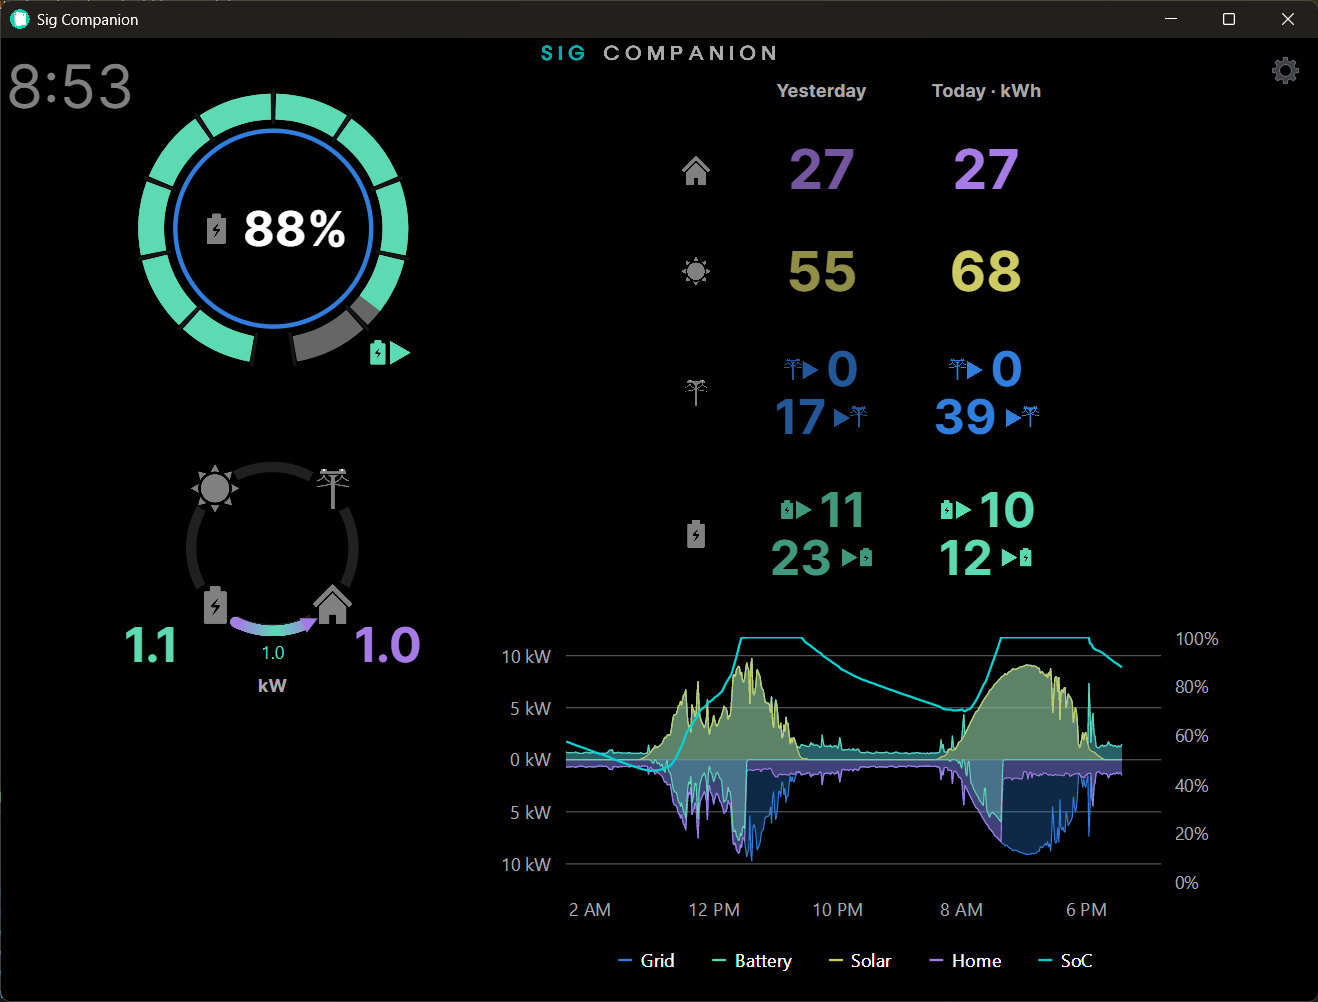
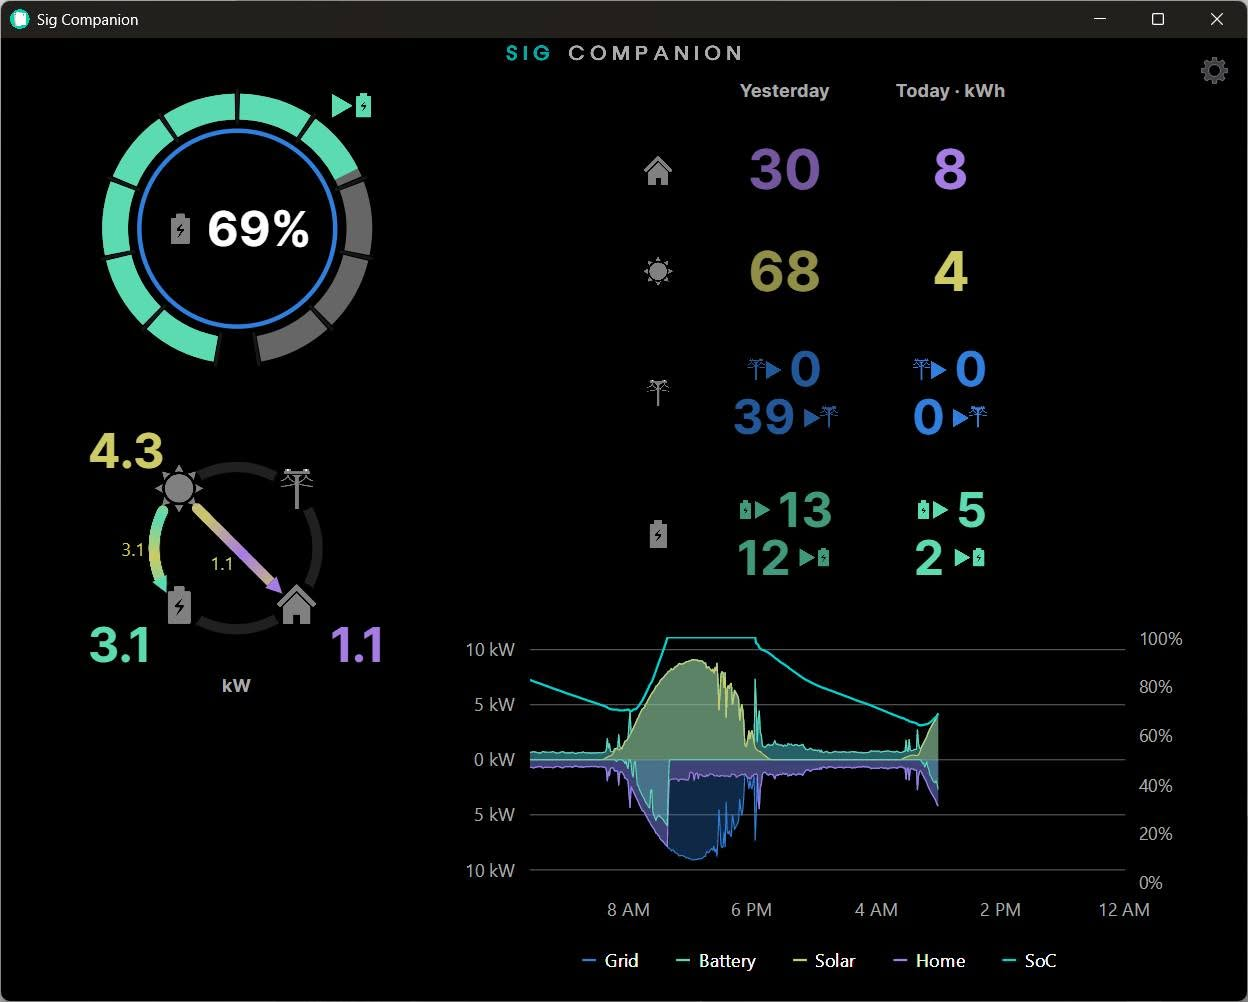
Browser app tweaks

diff --git a/SigCompanion.Browser/wwwroot/index.html b/SigCompanion.Browser/wwwroot/index.html
@@ -2,31 +2,20 @@
 <html>
 
 <head>
-    <title>SigCompanion.Browser</title>
+    <title>Sig Companion</title>
     <meta charset="UTF-8">
     <meta name="viewport" content="width=device-width, initial-scale=1.0">
     <link rel="stylesheet" href="./app.css" />
+    <link rel="icon" type="image/png" sizes="48x48" href="/favicon-48.png">
+    <link rel="icon" type="image/png" sizes="32x32" href="/favicon-32.png">
+    <link rel="icon" type="image/png" sizes="16x16" href="/favicon-16.png">
 </head>
 
 <body style="margin: 0; overflow: hidden">
 <div id="out">
     <div class="avalonia-splash">
         <h2>
-            Powered by
-            <a href="https://www.avaloniaui.net/" target="_blank">
-                <svg width="266" height="52" viewBox="0 0 266 52" fill="none" xmlns="http://www.w3.org/2000/svg">
-                    <path d="M55.8592 47.3941C54.9035 47.3941 54.1184 47.1723 53.504 46.7285C52.9237 46.2848 52.5483 45.6875 52.3776 44.9365C52.2411 44.1856 52.3947 43.3493 52.8384 42.4277L65.9456 13.7045C66.4917 12.544 67.1403 11.7077 67.8912 11.1957C68.6421 10.6496 69.5125 10.3765 70.5024 10.3765C71.4923 10.3765 72.3627 10.6496 73.1136 11.1957C73.8645 11.7077 74.496 12.544 75.008 13.7045L88.2176 42.4277C88.6613 43.3493 88.8149 44.2027 88.6784 44.9877C88.576 45.7387 88.2347 46.336 87.6544 46.7797C87.0741 47.1893 86.3232 47.3941 85.4016 47.3941C84.2411 47.3941 83.3365 47.1211 82.688 46.5749C82.0736 46.0288 81.5275 45.1755 81.0496 44.0149L78.9279 39.0997H62.0415L59.9552 44.0149C59.4432 45.2096 58.8971 46.08 58.3168 46.6261C57.7707 47.1381 56.9515 47.3941 55.8592 47.3941ZM70.4 19.2853L64.6844 32.9045H76.2627L70.5024 19.2853H70.4Z" fill="currentColor"/>
-                    <path d="M101.869 47.3941C100.879 47.3941 100.009 47.1381 99.258 46.6261C98.5071 46.08 97.9096 45.2779 97.4659 44.2197L89.7348 26.4021C89.3593 25.5147 89.2228 24.6955 89.3252 23.9445C89.4276 23.1595 89.786 22.5451 90.4004 22.1013C91.0489 21.6235 91.9364 21.3845 93.0628 21.3845C93.9844 21.3845 94.7353 21.6064 95.3156 22.0501C95.8959 22.4597 96.4079 23.2619 96.8516 24.4565L102.018 37.95L107.552 24.4053C108.03 23.2448 108.559 22.4597 109.14 22.0501C109.72 21.6064 110.522 21.3845 111.546 21.3845C112.433 21.3845 113.133 21.6235 113.645 22.1013C114.191 22.5451 114.516 23.1424 114.618 23.8933C114.755 24.6443 114.618 25.4635 114.208 26.3509L106.324 44.2197C105.88 45.312 105.283 46.1141 104.532 46.6261C103.815 47.1381 102.927 47.3941 101.869 47.3941Z" fill="currentColor"/>
-                    <path d="M126.569 47.4965C124.726 47.4965 123.07 47.1381 121.602 46.4213C120.135 45.7045 118.991 44.7317 118.172 43.5029C117.353 42.2741 116.943 40.8917 116.943 39.3557C116.943 37.5125 117.421 36.0619 118.377 35.0037C119.333 33.9115 120.886 33.1435 123.036 32.6997C125.186 32.2219 128.037 31.9829 131.586 31.9829H133.43V35.9765H131.638C129.897 35.9765 128.48 36.0789 127.388 36.2837C126.33 36.4544 125.562 36.7616 125.084 37.2053C124.64 37.6491 124.418 38.2635 124.418 39.0485C124.418 40.0043 124.743 40.7893 125.391 41.4037C126.074 42.0181 127.047 42.3253 128.31 42.3253C129.299 42.3253 130.17 42.1035 130.921 41.6597C131.706 41.1819 132.32 40.5504 132.764 39.7653C133.208 38.9461 133.43 38.0245 133.43 37.0005V31.1125C133.43 29.6107 133.088 28.5525 132.406 27.9381C131.723 27.2896 130.562 26.9653 128.924 26.9653C128.002 26.9653 126.995 27.0848 125.903 27.3237C124.845 27.5285 123.667 27.8869 122.37 28.3989C121.619 28.7403 120.954 28.8256 120.374 28.6549C119.793 28.4501 119.35 28.1088 119.042 27.6309C118.735 27.1189 118.582 26.5728 118.582 25.9925C118.582 25.3781 118.752 24.7979 119.094 24.2517C119.435 23.6715 119.998 23.2448 120.783 22.9717C122.387 22.3232 123.889 21.8795 125.289 21.6405C126.722 21.4016 128.037 21.2821 129.231 21.2821C131.859 21.2821 134.01 21.6747 135.682 22.4597C137.389 23.2107 138.669 24.3883 139.522 25.9925C140.376 27.5627 140.802 29.5936 140.802 32.0853V43.4517C140.802 44.7147 140.495 45.6875 139.881 46.3701C139.266 47.0528 138.379 47.3941 137.218 47.3941C136.058 47.3941 135.153 47.0528 134.505 46.3701C133.89 45.6875 133.583 44.7147 133.583 43.4517L133.594 43.15C133.594 43.15 133.293 44.032 132.61 44.8853C131.962 45.7045 131.126 46.3531 130.102 46.8309C129.078 47.2747 127.9 47.4965 126.569 47.4965Z" fill="currentColor"/>
-                    <path d="M155.632 47.4965C152.594 47.4965 150.324 46.6603 148.822 44.9877C147.321 43.2811 146.57 40.7552 146.57 37.4101V14.3189C146.57 13.0219 146.894 12.0491 147.542 11.4005C148.225 10.7179 149.198 10.3765 150.461 10.3765C151.69 10.3765 152.628 10.7179 153.277 11.4005C153.959 12.0491 154.301 13.0219 154.301 14.3189V37.1029C154.301 38.5024 154.591 39.5435 155.171 40.2261C155.786 40.8747 156.588 41.1989 157.578 41.1989C157.851 41.1989 158.107 41.1819 158.346 41.1477C158.585 41.1136 158.841 41.0965 159.114 41.0965C159.66 41.0283 160.035 41.1989 160.24 41.6085C160.479 41.984 160.598 42.752 160.598 43.9125C160.598 44.9365 160.394 45.7216 159.984 46.2677C159.574 46.7797 158.943 47.1211 158.09 47.2917C157.748 47.3259 157.356 47.36 156.912 47.3941C156.468 47.4624 156.042 47.4965 155.632 47.4965Z" fill="currentColor"/>
-                    <path d="M175.453 47.4965C172.756 47.4965 170.401 46.9675 168.387 45.9093C166.407 44.8512 164.871 43.3323 163.779 41.3525C162.687 39.3728 162.141 37.0347 162.141 34.3381C162.141 32.3243 162.448 30.5152 163.062 28.9109C163.677 27.3067 164.564 25.9413 165.725 24.8149C166.919 23.6544 168.336 22.784 169.974 22.2037C171.613 21.5893 173.439 21.2821 175.453 21.2821C178.149 21.2821 180.487 21.8112 182.467 22.8693C184.481 23.9275 186.034 25.4293 187.126 27.3749C188.253 29.3205 188.816 31.6416 188.816 34.3381C188.816 36.3861 188.492 38.2123 187.843 39.8165C187.229 41.4208 186.341 42.8032 185.181 43.9637C184.02 45.1243 182.604 46.0117 180.931 46.6261C179.293 47.2064 177.467 47.4965 175.453 47.4965ZM175.453 41.7109C176.579 41.7109 177.552 41.4379 178.371 40.8917C179.19 40.3456 179.839 39.5435 180.317 38.4853C180.795 37.3931 181.034 36.0107 181.034 34.3381C181.034 31.8464 180.522 30.0203 179.498 28.8597C178.474 27.6651 177.125 27.0677 175.453 27.0677C174.361 27.0677 173.388 27.3237 172.534 27.8357C171.715 28.3477 171.067 29.1499 170.589 30.2421C170.145 31.3003 169.923 32.6656 169.923 34.3381C169.923 36.8299 170.435 38.6901 171.459 39.9189C172.483 41.1136 173.814 41.7109 175.453 41.7109Z" fill="currentColor"/>
-                    <path d="M197.411 47.3941C196.148 47.3941 195.175 47.0528 194.492 46.3701C193.844 45.6875 193.52 44.7147 193.52 43.4517V25.2757C193.52 24.0128 193.844 23.0571 194.492 22.4085C195.175 21.7259 196.114 21.3845 197.308 21.3845C198.537 21.3845 199.476 21.7259 200.124 22.4085C200.773 23.0571 201.112 24.1871 201.112 25.45C201.141 25.3955 202.48 23.552 204.016 22.6645C205.586 21.7429 207.361 21.2821 209.34 21.2821C211.354 21.2821 213.01 21.6747 214.307 22.4597C215.604 23.2107 216.577 24.3712 217.225 25.9413C217.874 27.4773 218.198 29.44 218.198 31.8293V43.4517C218.198 44.7147 217.857 45.6875 217.174 46.3701C216.525 47.0528 215.57 47.3941 214.307 47.3941C213.078 47.3941 212.122 47.0528 211.44 46.3701C210.791 45.6875 210.467 44.7147 210.467 43.4517V32.1877C210.467 30.4469 210.143 29.2011 209.494 28.4501C208.88 27.6651 207.924 27.2725 206.627 27.2725C204.988 27.2725 203.674 27.7845 202.684 28.8085C201.729 29.8325 201.251 31.1979 201.251 32.9045V43.4517C201.251 46.08 199.971 47.3941 197.411 47.3941Z" fill="currentColor"/>
-                    <path d="M227.861 47.3429C226.598 47.3429 225.625 46.9845 224.942 46.2677C224.294 45.5168 223.97 44.4757 223.97 43.1445V25.6341C223.97 24.2688 224.294 23.2277 224.942 22.5109C225.625 21.76 226.598 21.3845 227.861 21.3845C229.09 21.3845 230.028 21.76 230.677 22.5109C231.359 23.2277 231.701 24.2688 231.701 25.6341V43.1445C231.701 44.4757 231.377 45.5168 230.728 46.2677C230.079 46.9845 229.124 47.3429 227.861 47.3429ZM227.861 17.1861C226.427 17.1861 225.318 16.8619 224.533 16.2133C223.782 15.5307 223.406 14.5749 223.406 13.3461C223.406 12.0832 223.782 11.1275 224.533 10.4789C225.318 9.79629 226.427 9.45496 227.861 9.45496C229.294 9.45496 230.387 9.79629 231.138 10.4789C231.889 11.1275 232.264 12.0832 232.264 13.3461C232.264 14.5749 231.889 15.5307 231.138 16.2133C230.387 16.8619 229.294 17.1861 227.861 17.1861Z" fill="currentColor"/>
-                    <path d="M246.169 47.4965C244.326 47.4965 242.67 47.1381 241.202 46.4213C239.735 45.7045 238.591 44.7317 237.772 43.5029C236.953 42.2741 236.543 40.8917 236.543 39.3557C236.543 37.5125 237.021 36.0619 237.977 35.0037C238.933 33.9115 240.486 33.1435 242.636 32.6997C244.786 32.2219 247.637 31.9829 251.186 31.9829H253.03V35.9765H251.238C249.497 35.9765 248.08 36.0789 246.988 36.2837C245.93 36.4544 245.162 36.7616 244.684 37.2053C244.24 37.6491 244.018 38.2635 244.018 39.0485C244.018 40.0043 244.343 40.7893 244.991 41.4037C245.674 42.0181 246.647 42.3253 247.91 42.3253C248.899 42.3253 249.77 42.1035 250.521 41.6597C251.306 41.1819 251.92 40.5504 252.364 39.7653C252.808 38.9461 253.03 38.0245 253.03 37.0005V31.1125C253.03 29.6107 252.688 28.5525 252.006 27.9381C251.323 27.2896 250.162 26.9653 248.524 26.9653C247.602 26.9653 246.595 27.0848 245.503 27.3237C244.445 27.5285 243.267 27.8869 241.97 28.3989C241.219 28.7403 240.554 28.8256 239.974 28.6549C239.393 28.4501 238.95 28.1088 238.642 27.6309C238.335 27.1189 238.182 26.5728 238.182 25.9925C238.182 25.3781 238.352 24.7979 238.694 24.2517C239.035 23.6715 239.598 23.2448 240.383 22.9717C241.987 22.3232 243.489 21.8795 244.889 21.6405C246.322 21.4016 247.637 21.2821 248.831 21.2821C251.459 21.2821 253.61 21.6747 255.282 22.4597C256.989 23.2107 258.269 24.3883 259.122 25.9925C259.976 27.5627 260.402 29.5936 260.402 32.0853V43.4517C260.402 44.7147 260.095 45.6875 259.481 46.3701C258.866 47.0528 257.979 47.3941 256.818 47.3941C255.658 47.3941 254.753 47.0528 254.105 46.3701C253.49 45.6875 253.183 44.7147 253.183 43.4517V43.1789C253.183 43.3144 252.893 44.032 252.21 44.8853C251.562 45.7045 250.726 46.3531 249.702 46.8309C248.678 47.2747 247.5 47.4965 246.169 47.4965Z" fill="currentColor"/>
-                    <path d="M22.3444 20.9916C18.7895 20.9916 15.9077 24.0073 15.9077 27.7274C15.9077 31.4475 18.7895 34.4632 22.3444 34.4632C25.8993 34.4632 28.7811 31.4475 28.7811 27.7274C28.7811 24.0073 25.8993 20.9916 22.3444 20.9916Z" fill="currentColor"/>
-                    <path fill-rule="evenodd" clip-rule="evenodd" d="M37.6937 49.0667H21.9271C10.8346 48.8653 1.90173 39.3893 1.90173 27.7333C1.90173 15.9513 11.0289 6.40002 22.2878 6.40002C33.3638 6.40002 42.3768 15.6435 42.6667 27.161L42.6314 44.4824C42.338 47.0679 40.2434 49.0667 37.6937 49.0667ZM9.22617 24.667C10.5612 18.3725 15.9275 13.6656 22.3444 13.6656C29.7657 13.6656 35.7818 19.9613 35.7818 27.7274C35.7818 27.7857 35.7825 27.8488 35.7831 27.9136C35.7846 28.0483 35.7861 28.1901 35.7818 28.3103V41.6939H28.7907V40.0685C26.877 41.1655 24.6803 41.7892 22.3444 41.7892C15.9275 41.7892 10.5612 37.0823 9.22617 30.7878C10.5043 30.4129 11.4416 29.1847 11.4416 27.7274C11.4416 26.2701 10.5043 25.0419 9.22617 24.667ZM8.33937 29.9683C9.52696 29.9683 10.4897 28.9609 10.4897 27.7181C10.4897 26.4753 9.52696 25.4678 8.33937 25.4678C7.15178 25.4678 6.18904 26.4753 6.18904 27.7181C6.18904 28.9609 7.15178 29.9683 8.33937 29.9683Z" fill="currentColor"/>
-                </svg>
-            </a>
+            Loading
         </h2>
     </div>
 </div>

diff --git a/SigCompanion/Services/AppSettingsStore.cs b/SigCompanion/Services/AppSettingsStore.cs
@@ -43,7 +43,9 @@ public sealed class AppSettingsStore
 
             var bytes = OperatingSystem.IsWindows()
                 ? ProtectedData.Unprotect(fileBytes, null, DataProtectionScope.CurrentUser)
-                : DecryptFallback(fileBytes);
+                : OperatingSystem.IsBrowser()
+                    ? fileBytes
+                    : DecryptFallback(fileBytes);
 
             var json = Encoding.UTF8.GetString(bytes);
             return JsonSerializer.Deserialize<AppSettings>(json, SerializerOptions) ?? new AppSettings();
@@ -62,9 +64,12 @@ public sealed class AppSettingsStore
         var bytes = Encoding.UTF8.GetBytes(json);
 
         // DPAPI is Windows-only; other platforms use AES-GCM with a key embedded in the app.
+        // AES-GCM is not supported in the browser (WebAssembly), so settings are stored unencrypted there.
         var fileBytes = OperatingSystem.IsWindows()
             ? ProtectedData.Protect(bytes, null, DataProtectionScope.CurrentUser)
-            : EncryptFallback(bytes);
+            : OperatingSystem.IsBrowser()
+                ? bytes
+                : EncryptFallback(bytes);
 
         File.WriteAllBytes(_settingsPath, fileBytes);
     }
